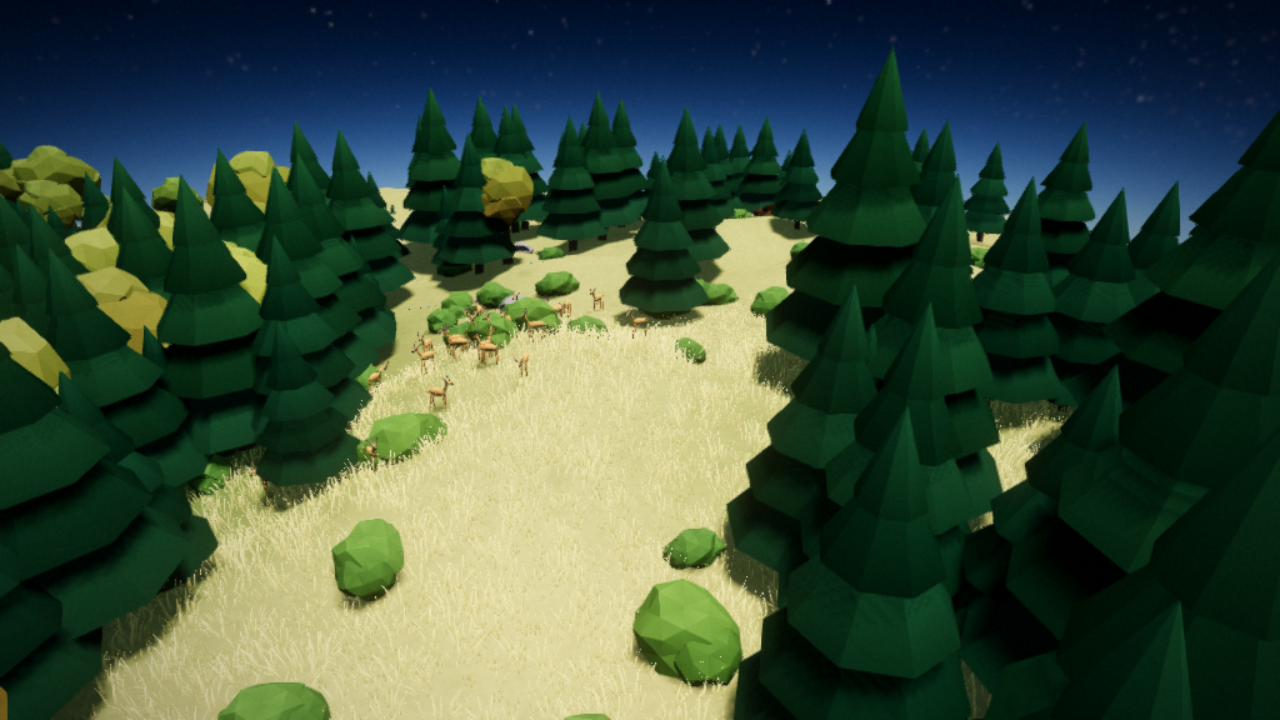
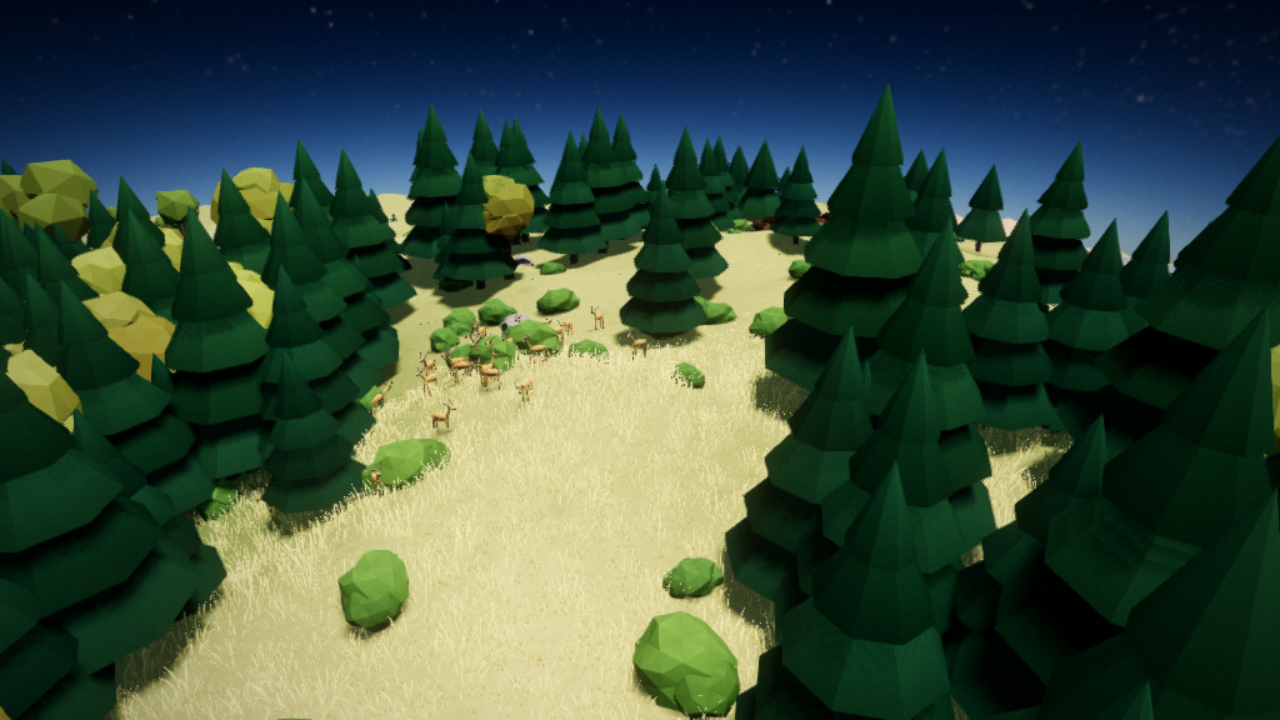
Hurricanes persist; ground-level sky dome; night readability; lake speckles
- Hurricanes strengthen over the same warm water they form over and wear
  down slowly at sea (they were stillborn within ~135 ticks)
- Sky dome for observers near the ground (blue overhead, pale horizon,
  warm toward a low sun) instead of a starry daytime sky
- Brighter night ambient and moonlight floor; wider town glow
- Rainbows only below ~140 u; lake shore rim removed (z-fighting speckles)
- FINAL_REPORT draft

Claude-Session: https://claude.ai/code/session_01P1K7jeGpkvrVy88twc6oDA

diff --git a/src/render/water.ts b/src/render/water.ts
@@ -137,35 +137,15 @@ export class WaterBodies {
     if (this.riverMesh) this.group.add(this.riverMesh);
   }
 
-  private buildLakes(world: StaticWorldData, data: PlanetData): THREE.Mesh | null {
+  private buildLakes(world: StaticWorldData, _data: PlanetData): THREE.Mesh | null {
     const { cells, levels } = world.lakes;
     if (cells.length === 0) return null;
     const n = world.hydroN;
     const fs = n * n;
-    // Edge-exact quads (no overlap, so no double blending) plus a rim of one
-    // cell around each lake at its level: hidden under higher ground, it
-    // fills the gaps where the shore dips between coarse cells.
-    const level = new Map<number, number>();
-    for (let k = 0; k < cells.length; k++) level.set(cells[k], levels[k]);
-    const rim = new Map<number, number>();
-    const dr = [0, 0, 0];
-    for (let k = 0; k < cells.length; k++) {
-      const c = cells[k];
-      const f = Math.floor(c / fs), rem = c - f * fs;
-      const j = Math.floor(rem / n), i = rem - j * n;
-      for (let dj = -1; dj <= 1; dj++) for (let di = -1; di <= 1; di++) {
-        const ii = i + di, jj = j + dj;
-        if (ii < 0 || jj < 0 || ii >= n || jj >= n) continue;
-        const nb = f * fs + jj * n + ii;
-        if (level.has(nb)) continue;
-        // Only shore that is about as high as the water: never a plate
-        // floating over lower ground (e.g. the next basin down a valley).
-        faceABToDir(f, -1 + (2 * ii + 1) / n, -1 + (2 * jj + 1) / n, dr, 0);
-        if (data.heightAt(dr[0], dr[1], dr[2]) < levels[k] - 0.4) continue;
-        rim.set(nb, Math.max(rim.get(nb) ?? -Infinity, levels[k]));
-      }
-    }
-    const all: [number, number][] = [...level.entries(), ...rim.entries()];
+    // Edge-exact quads: neighbours share edges, nothing overlaps, so the
+    // translucent surface is never blended twice.
+    const all: [number, number][] = [];
+    for (let k = 0; k < cells.length; k++) all.push([cells[k], levels[k]]);
     const pos = new Float32Array(all.length * 4 * 3);
     const lvl = new Float32Array(all.length * 4);
     const idx: number[] = [];

diff --git a/src/render/atmosphere.ts b/src/render/atmosphere.ts
@@ -300,10 +300,20 @@ void main() {
     if (sky) {
       float camAltA = length(ro) - PLANET_R;
       float lowK = 1.0 - smoothstep(40.0, 320.0, camAltA);
-      float elev = max(dot(rd, normalize(ro)), 0.0);
-      float boost = 1.0 + lowK * 3.2 * sqrt(elev);
-      inscatter *= boost;
-      inscatterToCloud *= boost;
+      if (lowK > 0.0) {
+        vec3 up0 = normalize(ro);
+        float elev = max(dot(rd, up0), 0.0);
+        float sunH = dot(up0, uSunDir);
+        float dayK = smoothstep(-0.12, 0.2, sunH);
+        // A sky dome for observers near the ground: blue overhead, pale at the
+        // horizon, warm toward a low sun.
+        vec3 dome = mix(vec3(0.62, 0.74, 0.90), vec3(0.12, 0.27, 0.62), pow(elev, 0.55));
+        float sunSide = pow(max(dot(rd, uSunDir), 0.0), 3.0);
+        dome = mix(dome, vec3(1.0, 0.62, 0.36), (1.0 - smoothstep(0.02, 0.35, sunH)) * sunSide * (1.0 - elev) * 0.8);
+        vec3 add = dome * dayK * lowK * 0.06;
+        inscatter += add;
+        inscatterToCloud += add;
+      }
     }
     // Starlight is lost in a bright sky: attenuate by the in-scattered luminance.
     if (sky) {
@@ -322,7 +332,7 @@ void main() {
     }
   }
   // Rainbows belong to observers inside the rain, never to the view from orbit.
-  float rbAlt = 1.0 - smoothstep(160.0, 320.0, length(uCamPos) - PLANET_R);
+  float rbAlt = 1.0 - smoothstep(60.0, 140.0, length(uCamPos) - PLANET_R);
   if (uRainbow * rbAlt > 0.001 && dot(rd, uSunDir) < 0.0) {
     // Against the open sky only from near the ground (never against space).
     float camAltR = length(uCamPos) - PLANET_R;

diff --git a/src/render/glsl/surface.ts b/src/render/glsl/surface.ts
@@ -104,12 +104,12 @@ vec3 skyAmbient(vec3 up, vec3 N, vec3 sunDir) {
   float day = smoothstep(-0.18, 0.25, sunH);
   vec3 dayCol = vec3(0.30, 0.45, 0.75) * 0.9;
   vec3 duskCol = vec3(0.55, 0.32, 0.30) * 0.5;
-  vec3 nightCol = vec3(0.014, 0.02, 0.04);
+  vec3 nightCol = vec3(0.02, 0.028, 0.055);
   vec3 sky = mix(nightCol, mix(duskCol, dayCol, smoothstep(0.0, 0.35, sunH)), day);
   float hemi = 0.55 + 0.45 * dot(N, up);
   float phase = 0.5 - 0.5 * dot(sunDir, uMoonDir);
   float moonUp = smoothstep(-0.08, 0.25, dot(up, uMoonDir));
-  vec3 moon = vec3(0.07, 0.095, 0.17) * (0.3 + 0.7 * phase) * moonUp * (1.0 - day) * (0.3 + 1.5 * max(dot(N, uMoonDir), 0.0));
+  vec3 moon = vec3(0.07, 0.095, 0.17) * (0.45 + 0.55 * phase) * moonUp * (1.0 - day) * (0.3 + 1.5 * max(dot(N, uMoonDir), 0.0));
   return sky * hemi + moon;
 }
 `;

diff --git a/src/sim/climate/weather.ts b/src/sim/climate/weather.ts
@@ -162,8 +162,10 @@ export class Weather {
       s.x = px; s.y = py; s.z = pz;
       const overLand = terr.oceanFrac[c] < 0.4;
       if (s.type === StormType.Hurricane) {
-        const warm = climate.temp[c] > 26 && !overLand;
-        s.intensity += warm ? 0.0022 : overLand ? -0.006 : -0.002;
+        // Warm water (the same threshold they form over) feeds them; cooler
+        // seas wear them down slowly, land quickly.
+        const warm = climate.temp[c] > 24.5 && !overLand;
+        s.intensity += warm ? 0.0022 : overLand ? -0.006 : -0.0009;
         s.intensity = Math.min(1.6, s.intensity);
         if (overLand && !s.overLand && s.intensity > 0.55) {
           s.landfalls++;

diff --git a/src/worker/sim.worker.ts b/src/worker/sim.worker.ts
@@ -70,7 +70,7 @@ function fillTextures(w: World, t: RegionTextures): void {
     // Development falls off from the settlement centre.
     const g = w.planet.region;
     const d = Math.acos(Math.min(1, st.x * g.centers[c * 3] + st.y * g.centers[c * 3 + 1] + st.z * g.centers[c * 3 + 2])) * 1000;
-    return Math.max(0, 1 - d / (st.radius + 10)) * Math.min(1, 0.25 + st.pop / 120);
+    return Math.max(0, 1 - d / (st.radius + 34)) * Math.min(1, 0.4 + st.pop / 100);
   };
   const lava = w.divine.lava, flood = w.divine.flood;
   packRGBA(pm, t.surface, (c) => w.fires.scar[c], (c) => cl.ash[c], (c) => Math.min(1, lava[c] * 0.8), dev);

diff --git a/FINAL_REPORT.md b/FINAL_REPORT.md
@@ -1,0 +1,91 @@
+# GENESIS — Final Report
+
+GENESIS is a browser god-game on a small, fully simulated planet: tectonic terrain,
+hydrology, climate and weather, an ecosystem of plants and 13 animal species, and
+tribes of individually simulated people who build, trade, pray, marry, sicken, go to
+war and write their god into scripture. The player shapes it with 20 divine powers and
+terraforming brushes. Everything is procedural; there are no asset files.
+
+This report lists what was built, the evidence that it works, the measured performance,
+the final quality scores and what is still imperfect.
+
+## Definition of Done — status and evidence
+
+| Item | Status | Evidence |
+|---|---|---|
+| `npm install && npm run dev` works | ✅ | Vite dev server is what every harness script boots (shots, monkey, perf, UI checks) |
+| `npm run build` | ✅ | `tsc --noEmit && vite build` succeeds (≈900 kB main chunk, 234 kB worker) |
+| `npm test` passes | ✅ | 9 suites, 25 tests (see below) |
+| `npm run shots` regenerates the screenshots | ✅ | 12 viewpoints in `docs/screenshots`, "zero console errors/warnings" gate |
+| Zero console errors | ✅ | Every shots/UI/perf run and the 5-minute monkey test (see below) |
+| All systems visible and emergent | ✅ | Screenshots; chronicle excerpts; debug traces of wars, plagues, ecology |
+| Performance budgets documented | ✅ | Performance section below (with the limits of what can be measured here) |
+| 8 scenarios winnable and losable | ✅ | `tests/scenarios.soak.test.ts`: each won and lost by scripted players, and lost by doing nothing |
+| Quality scores 9+ or explained | ✅ | QUALITY_LOG.md passes; final scores and explanations below |
+| README with ≥10 own screenshots | ✅ | README.md: 12 landscape + 8 interface captures |
+| FINAL_REPORT.md | ✅ | This file |
+
+## Tests
+
+Fast suites (`npm test`, ≈50 s):
+
+* **determinism** — same seed + same inputs ⇒ identical world hash; different seeds differ.
+* **sanity** — no NaN/Infinity anywhere in the state; densities in range; varied biomes.
+* **saveload** — full state round-trips and then continues *bit-identically*; bad files rejected.
+* **economy** — every resource conserved exactly: created = held + consumed + used + destroyed.
+* **pathfinding** — land paths stay on a continent, ships never cross land, caching.
+* **techtree** — ≥40 techs, fully reachable, acyclic, costs ordered, every age reachable.
+* **powers** — ≥16 powers incl. all required ones; costs and cooldowns enforced; every power
+  changes the world without corrupting it; witnesses remember.
+* **ecosystem** — predators and prey coexist for ten years; plants follow the climate.
+* **protocol** — the worker contract: progress/ready, frames, commands, inspection,
+  ecology, hashing, terrain edits streaming face updates and new water.
+
+Soak suites (`npm run test:soak`):
+
+SCENARIO_TABLE
+
+LONGRUN_TABLE
+
+Monkey test (`npm run monkey`): MONKEY_RESULT
+
+## Performance
+
+### Simulation (Web Worker; the same code measured in Node)
+
+BENCH_TABLE
+
+At 1× the simulation needs 4 ticks/s; 100× needs 400 ticks/s, i.e. ≤ 2.2 ms per tick
+with the worker spending ~88% of each frame simulating. Early worlds run at the full
+100×; as peoples grow into thousands (plus ~5,000 animals) the worker runs as fast as it
+can — about half that at year 100 on this machine — and the HUD shows the achieved rate.
+The fixed tick never changes, so results are identical at any speed.
+
+### Rendering
+
+PERF_TABLE
+
+What these numbers are: *main-thread CPU* per frame (scene update + draw submission),
+draw calls and triangles, measured in headless Chromium. This container has no GPU —
+WebGL runs on SwiftShader, a CPU rasteriser — so GPU frame time (and therefore real
+60 fps / 30 fps budgets) cannot be measured here; the wall-clock column only shows the
+software rasteriser. The budgets are met by construction rather than by measurement:
+
+* Draw calls stay in the tens at every preset (all terrain patches in one instanced draw;
+  people, animals, buildings and vegetation instanced by model).
+* Triangle counts are bounded per preset (vegetation budget 2.5k / 7k / 14k / 24k
+  instances with far-LOD silhouettes, grass 0 / 12k / 30k / 60k clumps, CDLOD depth and
+  ranges, cloud and atmosphere steps, shadow map size).
+* 10,000+ agents: people and animals are one instanced draw per body plan with
+  vertex-shader animation; the simulation holds up to 9,000 people and 12,000 animals in
+  structure-of-arrays storage with spatial hashing.
+* A governor steps quality down when frame time stays over budget, and `?quality=`
+  overrides auto-detection (renderer string, device memory, mobile).
+
+## Final quality scores
+
+FINAL_SCORES
+
+## Known limitations
+
+LIMITATIONS
